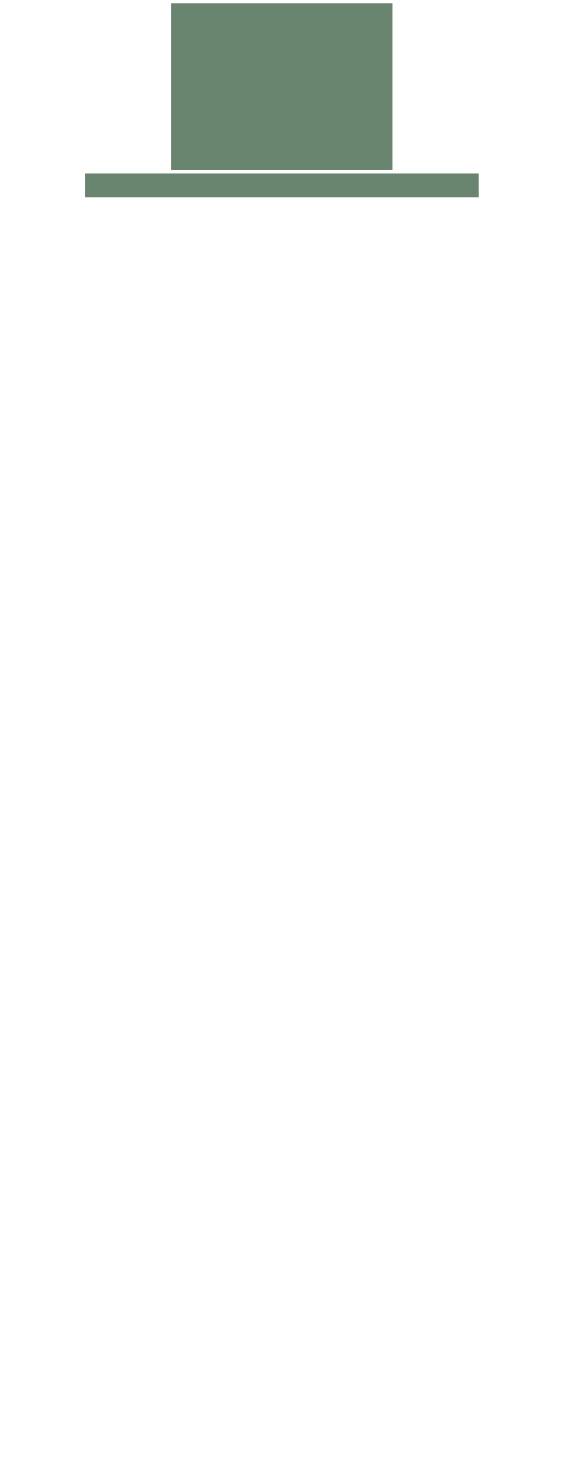
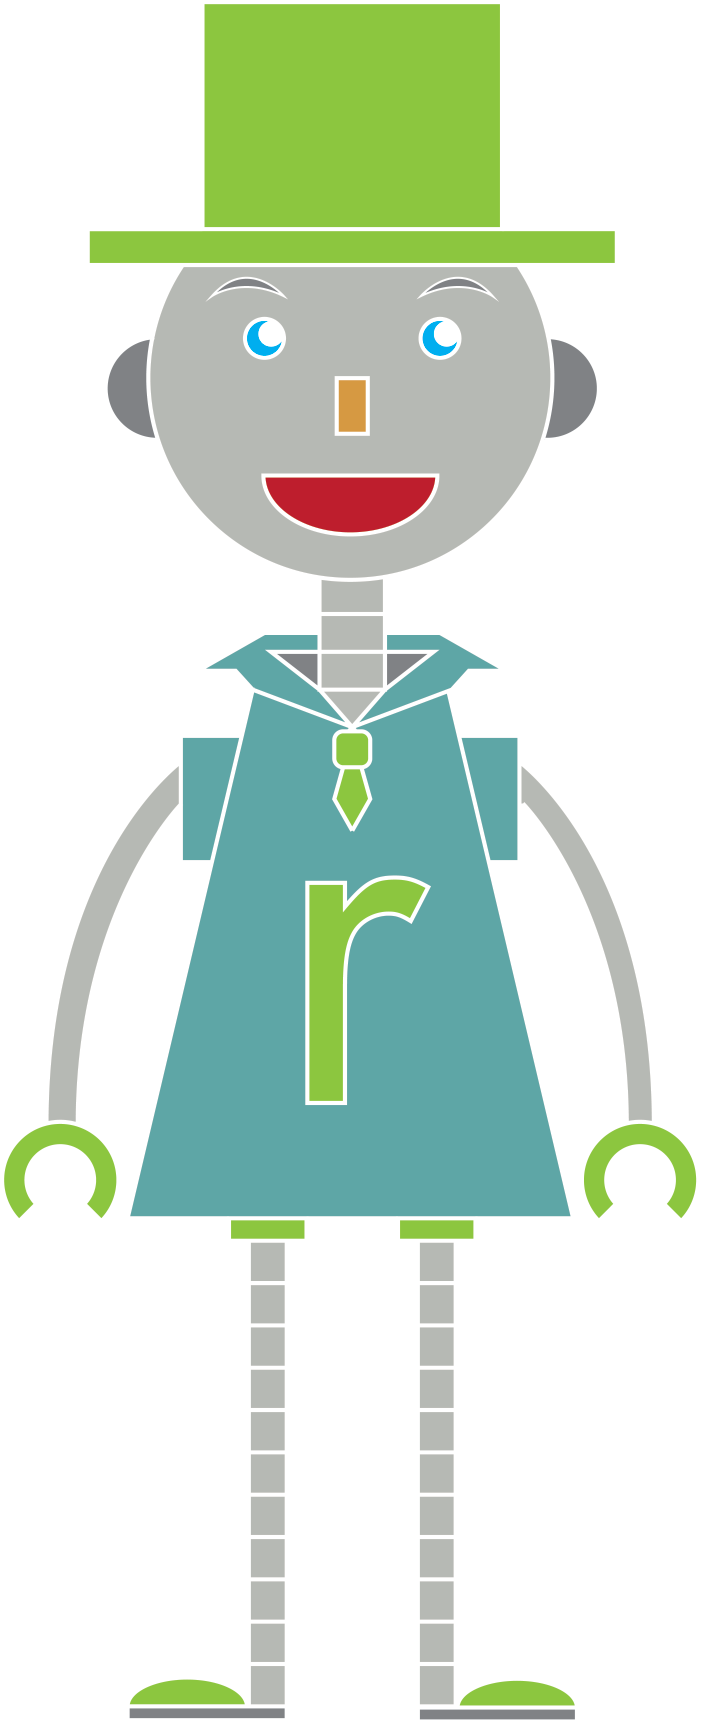
level1 animations

diff --git a/js/chooseBuild.js b/js/chooseBuild.js
@@ -4,9 +4,12 @@ var chooseBuildState = {
 	selectedRobot:"",
 
 	preload: function(){
-		game.load.image('robot1', 'assets/customRobot/robot1.png' );
-		game.load.image('robot2', 'assets/customRobot2/robot2.png' );
-		game.load.image('robot3', 'assets/customRobot3/robot3.png' );
+		game.load.image('robot1', 'assets/customRobot1/robot1_a.png' );
+		game.load.image('robot2', 'assets/customRobot2/robot2_a.png' );
+		game.load.image('robot3', 'assets/customRobot3/robot3_a.png' );
+		game.load.image('robot1_shadow', 'assets/customRobot1/robot1_shadow.png' );
+		game.load.image('robot2_shadow', 'assets/customRobot2/robot2_shadow.png' );
+		game.load.image('robot3_shadow', 'assets/customRobot3/robot3_shadow.png' );
 	},
 
 	selectR: function(r){
@@ -28,6 +31,11 @@ var chooseBuildState = {
 
 	create: function(){
 		game.stage.backgroundColor = "#b4a39c";
+
+		var robot1_shadow  = game.add.sprite(game.world.width * 1/4 - 10, game.world.centerY + 10, 'robot1_shadow');
+		var robot2_shadow  = game.add.sprite(game.world.width * 2/4 - 10, game.world.centerY + 10, 'robot2_shadow');
+		var robot3_shadow  = game.add.sprite(game.world.width * 3/4 - 10, game.world.centerY + 10, 'robot3_shadow');
+		
 		robot1  = game.add.sprite(game.world.width * 1/4, game.world.centerY, 'robot1');
 		robot2  = game.add.sprite(game.world.width * 2/4, game.world.centerY, 'robot2');
 		robot3  = game.add.sprite(game.world.width * 3/4, game.world.centerY, 'robot3');
@@ -36,14 +44,22 @@ var chooseBuildState = {
 		robot2.anchor.setTo(0.5, 0.5);
 		robot3.anchor.setTo(0.5, 0.5);
 
-		var scale = height/1400;
-		robot1.scale.setTo(scale/1.8, scale/1.8);
-		robot2.scale.setTo(scale/1.8, scale/1.8);
-		robot3.scale.setTo(scale/1.8, scale/1.8);
+		robot1_shadow.anchor.setTo(0.5, 0.5);
+		robot2_shadow.anchor.setTo(0.5, 0.5);
+		robot3_shadow.anchor.setTo(0.5, 0.5);
 
-		robotText1 = game.add.text(game.world.width * 1/4, game.world.height* 5/6, "Rob");
-		robotText2 = game.add.text(game.world.width * 2/4, game.world.height* 5/6, "Henry");
-		robotText3 = game.add.text(game.world.width * 3/4, game.world.height* 5/6, "Ben");
+		var scale = height/1400;
+		robot1.scale.setTo(scale/2.0, scale/2.0);
+		robot2.scale.setTo(scale/2.0, scale/2.0);
+		robot3.scale.setTo(scale/2.0, scale/2.0);
+
+		robot1_shadow.scale.setTo(scale/2.0, scale/2.0);
+		robot2_shadow.scale.setTo(scale/2.0, scale/2.0);
+		robot3_shadow.scale.setTo(scale/2.0, scale/2.0);
+
+		robotText1 = game.add.text(game.world.width * 1/4, game.world.height* 6/7, "Rob");
+		robotText2 = game.add.text(game.world.width * 2/4, game.world.height* 6/7, "Henry");
+		robotText3 = game.add.text(game.world.width * 3/4, game.world.height* 6/7, "Ben");
 
 		robotText1.font = 'Bicycle';
 		robotText1.addColor("#ffffff", 0)

diff --git a/js/level1.js b/js/level1.js
@@ -1,0 +1,83 @@
+var level1 = {
+	robot: "",
+	cloud1: "", cloud2:"", cloud3:"",
+	ship: "",
+	water:"",
+	platform:"",
+	gear: "",
+	direction:1,
+	shipDirection: -1,
+
+	preload: function(){
+		var base = '';
+		if (game.state.states["choose-build"].selectedRobot == "robot1"){
+			base = "assets/customRobot1/robot1_" + game.state.states["build"].selectedRobot + ".png";
+		}
+
+		else if(game.state.states["choose-build"].selectedRobot == "robot2"){
+			base = "assets/customRobot2/robot2_" + game.state.states["build"].selectedRobot + ".png";
+		}
+
+		else{
+			base = "assets/customRobot3/robot3_c.png"
+		}
+
+		console.log(base);
+		game.load.image('robot', base );
+		game.load.image('cloud', 'assets/cloud.png');
+		game.load.image('ship', 'assets/ship.png');
+		game.load.image('platform', 'assets/platform.png');
+		game.load.image('water', 'assets/water.png');
+
+	},
+
+	create: function(){
+		var scale = height/1400;
+		game.stage.backgroundColor = "#b4a39c";
+		this.cloud2 = game.add.sprite(game.world.width * 3/5, -80, 'cloud');
+		this.ship = game.add.sprite(game.world.width * 3/5, game.world.centerY, 'ship');
+		this.cloud1 = game.add.sprite(game.world.centerX - 100, -108, 'cloud');
+		this.cloud3 = game.add.sprite(game.world.width * 4/5, -88, 'cloud');
+		this.platform  = game.add.sprite(0, game.world.height, 'platform');
+		this.platform.anchor.setTo(0, 1);
+		this.platform.scale.setTo(scale/2, scale/2);
+		this.robot  = game.add.sprite(game.world.width * 1/6, game.world.centerY - this.platform.height/4 + 2, 'robot');
+		this.robot.anchor.setTo(0.5);
+		this.ship.scale.setTo(scale/2.5);
+		this.ship.anchor.setTo(0.5);
+		this.water = game.add.sprite(game.world.width, game.world.height, 'water');
+		this.water.anchor.setTo(1, 1);
+		this.water.scale.setTo(scale/2 * 1.5, scale/2);
+		this.cloud1.scale.setTo(0.62, 0.62);
+		this.cloud2.scale.setTo(0.7, 0.7);
+		this.cloud3.scale.setTo(0.4, 0.4);
+		this.robot.scale.setTo(scale/3, scale/3);
+
+
+	},
+
+	update: function(){
+		this.cloud1.y += 0.3 * this.direction;
+		this.cloud2.y -= 0.3 * this.direction;
+		this.cloud3.y += 0.3 * this.direction;
+
+		this.water.y -= 0.1 * this.direction;
+		this.ship.y -= 0.1 * this.direction;
+
+		if(this.cloud1.y < -110){
+			this.direction = 1;
+		}
+
+		else if (this.cloud1.y > -80 ){
+			this.direction = -1;
+		}
+
+		if(this.ship.y < game.world.width * 3/5 - 20){
+			this.shipDirection = 1;
+		}
+
+		else if(this.ship.y > game.world.width * 3/5  + 10){
+			this.shipDirection = -2;
+		}
+	}
+}

diff --git a/js/build.js b/js/build.js
@@ -1,22 +1,22 @@
 var build = {
 	robot: "",
 	colorIndex: 0,
+	selectedRobot:"",
 
 	preload: function(){
-		console.log
 		if(game.state.states["choose-build"].selectedRobot == "robot1"){
 			console.log(game.state.states["choose-build"].selectedRobot);
-			game.load.spritesheet('robot', 'assets/customRobot1/customRobotSprite1.png', 564, 1466, 3);
+			game.load.spritesheet('robot', 'assets/customRobot1/customRobotSprite1.png', 701, 1724, 3);
 		}
 
 		else if (game.state.states["choose-build"].selectedRobot == "robot2"){
 			console.log(game.state.states["choose-build"].selectedRobot);
-			game.load.spritesheet('robot', 'assets/customRobot2/customRobotSprite2.png', 627, 1434, 3);
+			game.load.spritesheet('robot', 'assets/customRobot2/customRobotSprite2.png', 926.3, 1661, 3);
 		}
 
 		else if (game.state.states["choose-build"].selectedRobot == "robot3"){
 			console.log(game.state.states["choose-build"].selectedRobot);
-			game.load.spritesheet('robot', 'assets/customRobot3/customRobotSprite3.png', 754, 1435, 3 );
+			game.load.spritesheet('robot', 'assets/customRobot3/customRobotSprite3.png', 799, 1694, 3 );
 		}
 		
 		game.load.image('button', 'assets/arrowbutton.png');
@@ -40,6 +40,10 @@ var build = {
 
 		button1.inputEnabled = true;
 		button2.inputEnabled = true;
+
+		var inputKey = game.input.keyboard.addKey(Phaser.Keyboard.W);
+		inputKey.onDown.add(this.goToMenu, this);
+
 		
 	},
 
@@ -62,6 +66,22 @@ var build = {
 		else if (r.key == "button" && robot.frame == 0){
 			robot.frame = 2;
 		}
+	},
+
+	goToMenu: function(){
+		if(robot.frame == 0){
+			this.selectedRobot = "a";
+		}
+
+		else if (robot.frame == 1){
+			this.selectedRobot = "b";
+		}
+
+		else{
+			this.selectedRobot = "c";
+		}
+
+		game.state.start('house-menu')
 	}	
 
 }

diff --git a/js/menu.js b/js/menu.js
@@ -7,14 +7,14 @@ var menuState = {
 
 	preload: function(){
 		game.load.image('start-bg', 'assets/startpage.png' );
-		game.load.image('start-robot', 'assets/startrobot.png');
+		game.load.image('start-robot', 'assets/customRobot1/robot1_a.png');
 		game.load.image('start-gear', 'assets/startgear.png');
 	},
 
 	create: function(){
 		game.stage.backgroundColor = "#b4a39c";
 		this.bg = game.add.sprite(game.world.centerX, game.world.centerY, 'start-bg');
-		this.robot = game.add.sprite(game.world.centerX, game.world.height, 'start-robot');
+		this.robot = game.add.sprite(game.world.centerX, game.world.height + 30, 'start-robot');
 		this.gear1 = game.add.sprite(0, 10, 'start-gear');
 		this.gear2 = game.add.sprite(10, game.world.centerY -10, 'start-gear');
 		this.gear3 = game.add.sprite(0, game.world.height-20, 'start-gear');
@@ -37,7 +37,7 @@ var menuState = {
 
 
 		this.robot.anchor.setTo(0.5, 1);
-		this.robot.scale.setTo(0.20, 0.2);
+		this.robot.scale.setTo(0.21, 0.21);
 
 		this.robot.animations.add('move');
 		this.robot.animations.play('move', 15, true);

diff --git a/js/info.js b/js/info.js
@@ -23,7 +23,7 @@ var infoState = {
 	preload: function(){
 		game.load.image('info-cloud', 'assets/cloud.png');
 		game.load.image('info-ground', 'assets/ground.png');
-		game.load.spritesheet('info-robot-sprite', 'assets/robot_sprite/robot_sprite.png', 365, 492, 3);
+		game.load.image('info-robot-sprite', 'assets/customRobot1/robot1_a.png', 365, 492, 3);
 	},
 
 	create: function(){
@@ -35,9 +35,9 @@ var infoState = {
 		this.robot = game.add.sprite(game.world.centerX, height - 40, 'info-robot-sprite');
 		this.scriptText = game.add.text(game.world.centerX, game.world.height - 20, this.script[0]);
 		this.scriptText.anchor.setTo(0.5);
-		var anim = this.robot.animations.add('anim');
-		this.robot.animations.play('anim', 1, true);
 		this.robot.anchor.setTo(1,1);
+		var scale = height/1400;
+		this.robot.scale.setTo(scale/2.5, scale/2.5);
 		this.cloud1 = game.add.sprite(50, -18, 'info-cloud');
 		this.cloud2 = game.add.sprite(game.world.centerX * 1/2 - 50, -30, 'info-cloud');
 		this.cloud3 = game.add.sprite(game.world.centerX, -20, 'info-cloud');

diff --git a/js/game.js b/js/game.js
@@ -1,6 +1,9 @@
 var width = window.innerWidth;
 var height = window.innerHeight;
 var game = new Phaser.Game(width, height, Phaser.AUTO, 'game-frame');
+
+game.state.add("level1", level1);
+game.state.add("house-menu", houseMenu);
 game.state.add('menu', menuState);
 game.state.add('info', infoState);
 game.state.add('choose-build', chooseBuildState);
@@ -16,7 +19,7 @@ recognition.start();*/
 WebFont.load({
 	active: function() { 
         console.log("font loaded");
-        game.state.start('menu');
+        game.state.start('level1');
     },
 	
 	custom: {

diff --git a/js/house.js b/js/house.js
@@ -1,0 +1,20 @@
+var houseMenu = {
+	preload: function(){
+		game.load.image('bg', 'assets/menu_basic.png' );
+	},
+
+	create: function(){
+		// robots
+		var bg = game.add.sprite(game.world.centerX, game.world.centerY, 'bg');
+		bg.anchor.setTo(0.5);
+		var scale = height/3204;
+		bg.scale.setTo(scale, scale);
+		
+		var inputKey = game.input.keyboard.addKey(Phaser.Keyboard.W);
+		inputKey.onDown.add(this.gotLevel1, this);
+	},
+
+	gotLevel1: function(){
+		game.state.start('level1');
+	}
+}

diff --git a/home.html b/home.html
@@ -10,6 +10,8 @@
 		<div id="game-frame">
 		</div>
 		<script type="text/javascript" src="js/webfontloader.js"></script>
+		<script type="text/javascript" src="js/level1.js"></script>
+		<script type="text/javascript" src="js/house.js"></script>
 		<script type="text/javascript" src="js/build.js"></script>
 		<script type="text/javascript" src="js/chooseBuild.js"></script>
 		<script type="text/javascript" src="js/info.js"></script>
